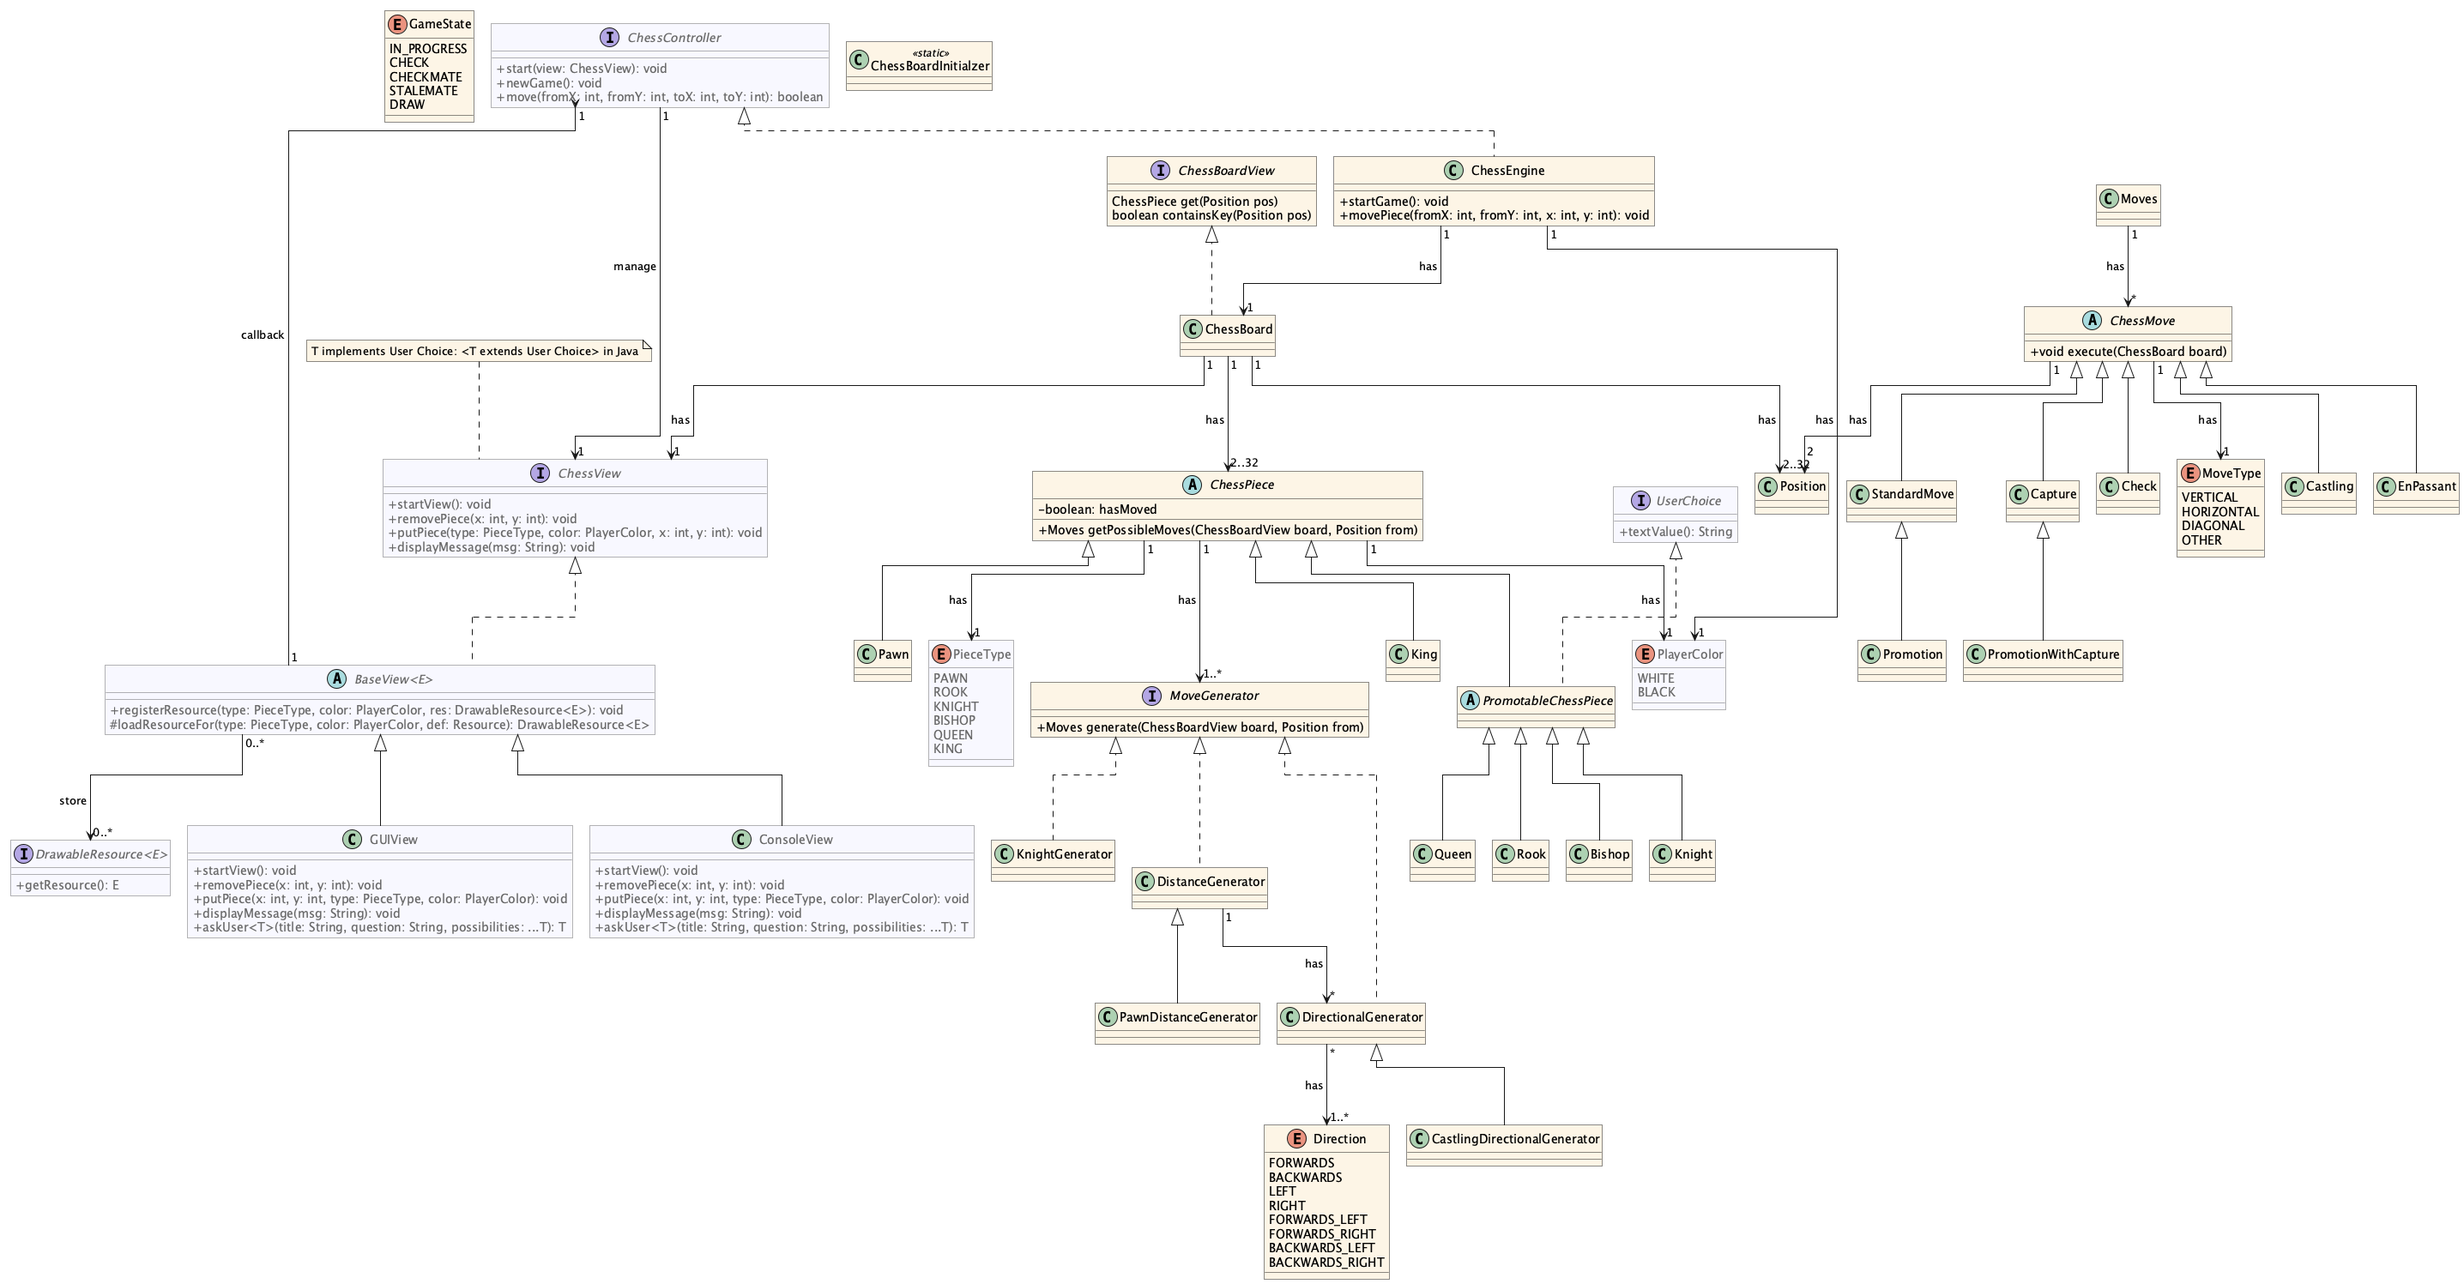
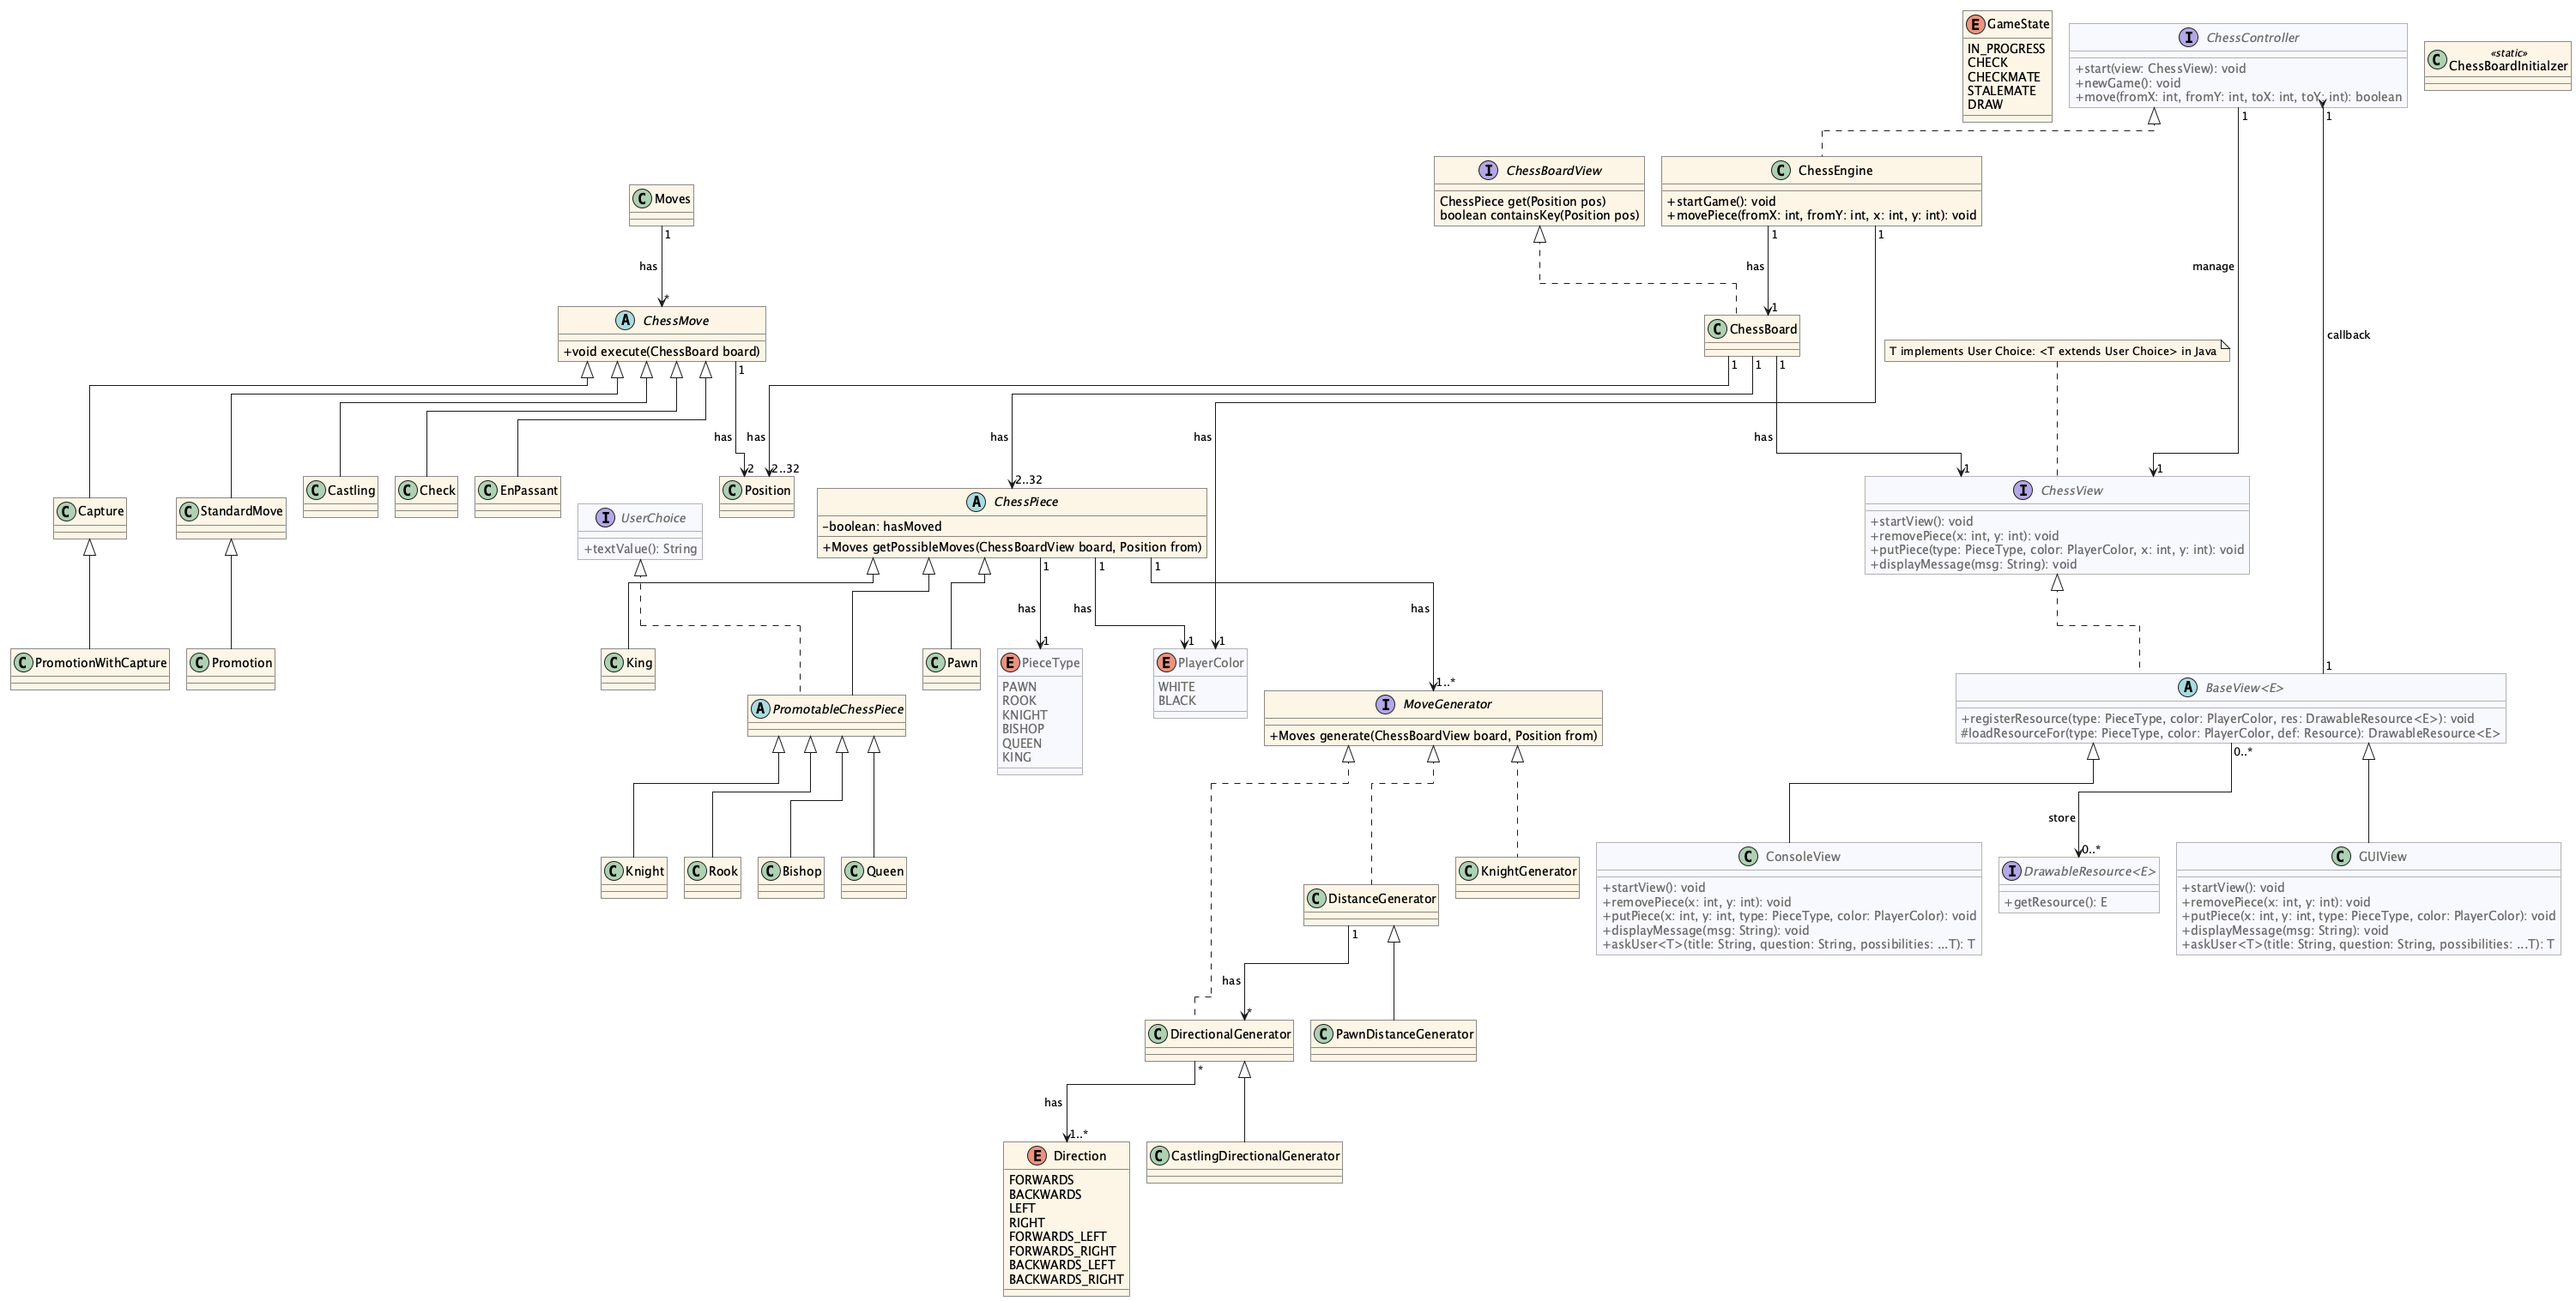
Remove MoveType and move logic in Pawn

diff --git a/src/main/java/engine/piece/Pawn.java b/src/main/java/engine/piece/Pawn.java
@@ -5,7 +5,6 @@ import chess.PlayerColor;
 import engine.ChessBoardView;
 import engine.move.Capture;
 import engine.move.ChessMove;
-import engine.move.MoveType;
 import engine.move.Moves;
 import engine.move.Promotion;
 import engine.move.PromotionWithCapture;
@@ -29,7 +28,7 @@ public class Pawn extends ChessPiece {
         for (ChessMove move : moves.getAllMoves()) {
             Position to = move.getTo();
 
-            if (move.getType() == MoveType.DIAGONAL) {
+            if (isDiagonalMove(from, to)) {
                 // Handle diagonal moves (captures or en passant)
                 if (board.containsKey(to) && board.get(to).isOpponent(this)) {
                     // Pomotion with capture
@@ -55,6 +54,11 @@ public class Pawn extends ChessPiece {
         }
 
         return possibleMoves;
+    }
+
+    private boolean isDiagonalMove(Position from, Position to) {
+        Position dpos = from.sub(to).abs();
+        return dpos.x() == dpos.y();
     }
 
     private boolean isAtEdge(int y) {

diff --git a/src/main/java/engine/generator/KnightGenerator.java b/src/main/java/engine/generator/KnightGenerator.java
@@ -8,7 +8,6 @@ import engine.piece.ChessPiece;
 import engine.piece.Position;
 
 public class KnightGenerator implements MoveGenerator {
-
     private static final int[][] KNIGHT_MOVES = {
             { 2, 1 }, { 2, -1 }, { -2, 1 }, { -2, -1 },
             { 1, 2 }, { 1, -2 }, { -1, 2 }, { -1, -2 }
@@ -20,7 +19,7 @@ public class KnightGenerator implements MoveGenerator {
         ChessPiece piece = board.get(from);
 
         for (int[] move : KNIGHT_MOVES) {
-            Position to = from.add(move[0], move[1]);
+            Position to = from.add(new Position(move[0], move[1]));
 
             if (to.isValid()) {
                 if (!board.containsKey(to)) {

diff --git a/src/main/java/engine/piece/Position.java b/src/main/java/engine/piece/Position.java
@@ -18,8 +18,16 @@ public record Position(int x, int y) {
         return Math.max(dx, dy);
     }
 
-    public Position add(int xp, int yp) {
-        return new Position(x + xp, y + yp);
+    public Position add(Position other) {
+        return new Position(x + other.x, y + other.y);
+    }
+
+    public Position sub(Position other) {
+        return new Position(x - other.x, y - other.y);
+    }
+
+    public Position abs() {
+        return new Position(Math.abs(x), Math.abs(y));
     }
 
     @Override

diff --git a/src/main/java/engine/move/ChessMove.java b/src/main/java/engine/move/ChessMove.java
@@ -6,16 +6,10 @@ import engine.piece.Position;
 public abstract class ChessMove {
     protected final Position from;
     protected final Position to;
-    private final MoveType type;
 
     public ChessMove(Position from, Position to) {
         this.from = from;
         this.to = to;
-        type = MoveType.fromPos(from, to);
-    }
-
-    public MoveType getType() {
-        return type;
     }
 
     public Position getTo() {

diff --git a/src/main/java/engine/generator/Direction.java b/src/main/java/engine/generator/Direction.java
@@ -44,7 +44,7 @@ public enum Direction {
      * taking the piece color into account.
      */
     public Position add(Position position, PlayerColor color) {
-        return position.add(getDx(color), getDy(color));
+        return position.add(new Position(getDx(color), getDy(color)));
     }
 
     @Override
